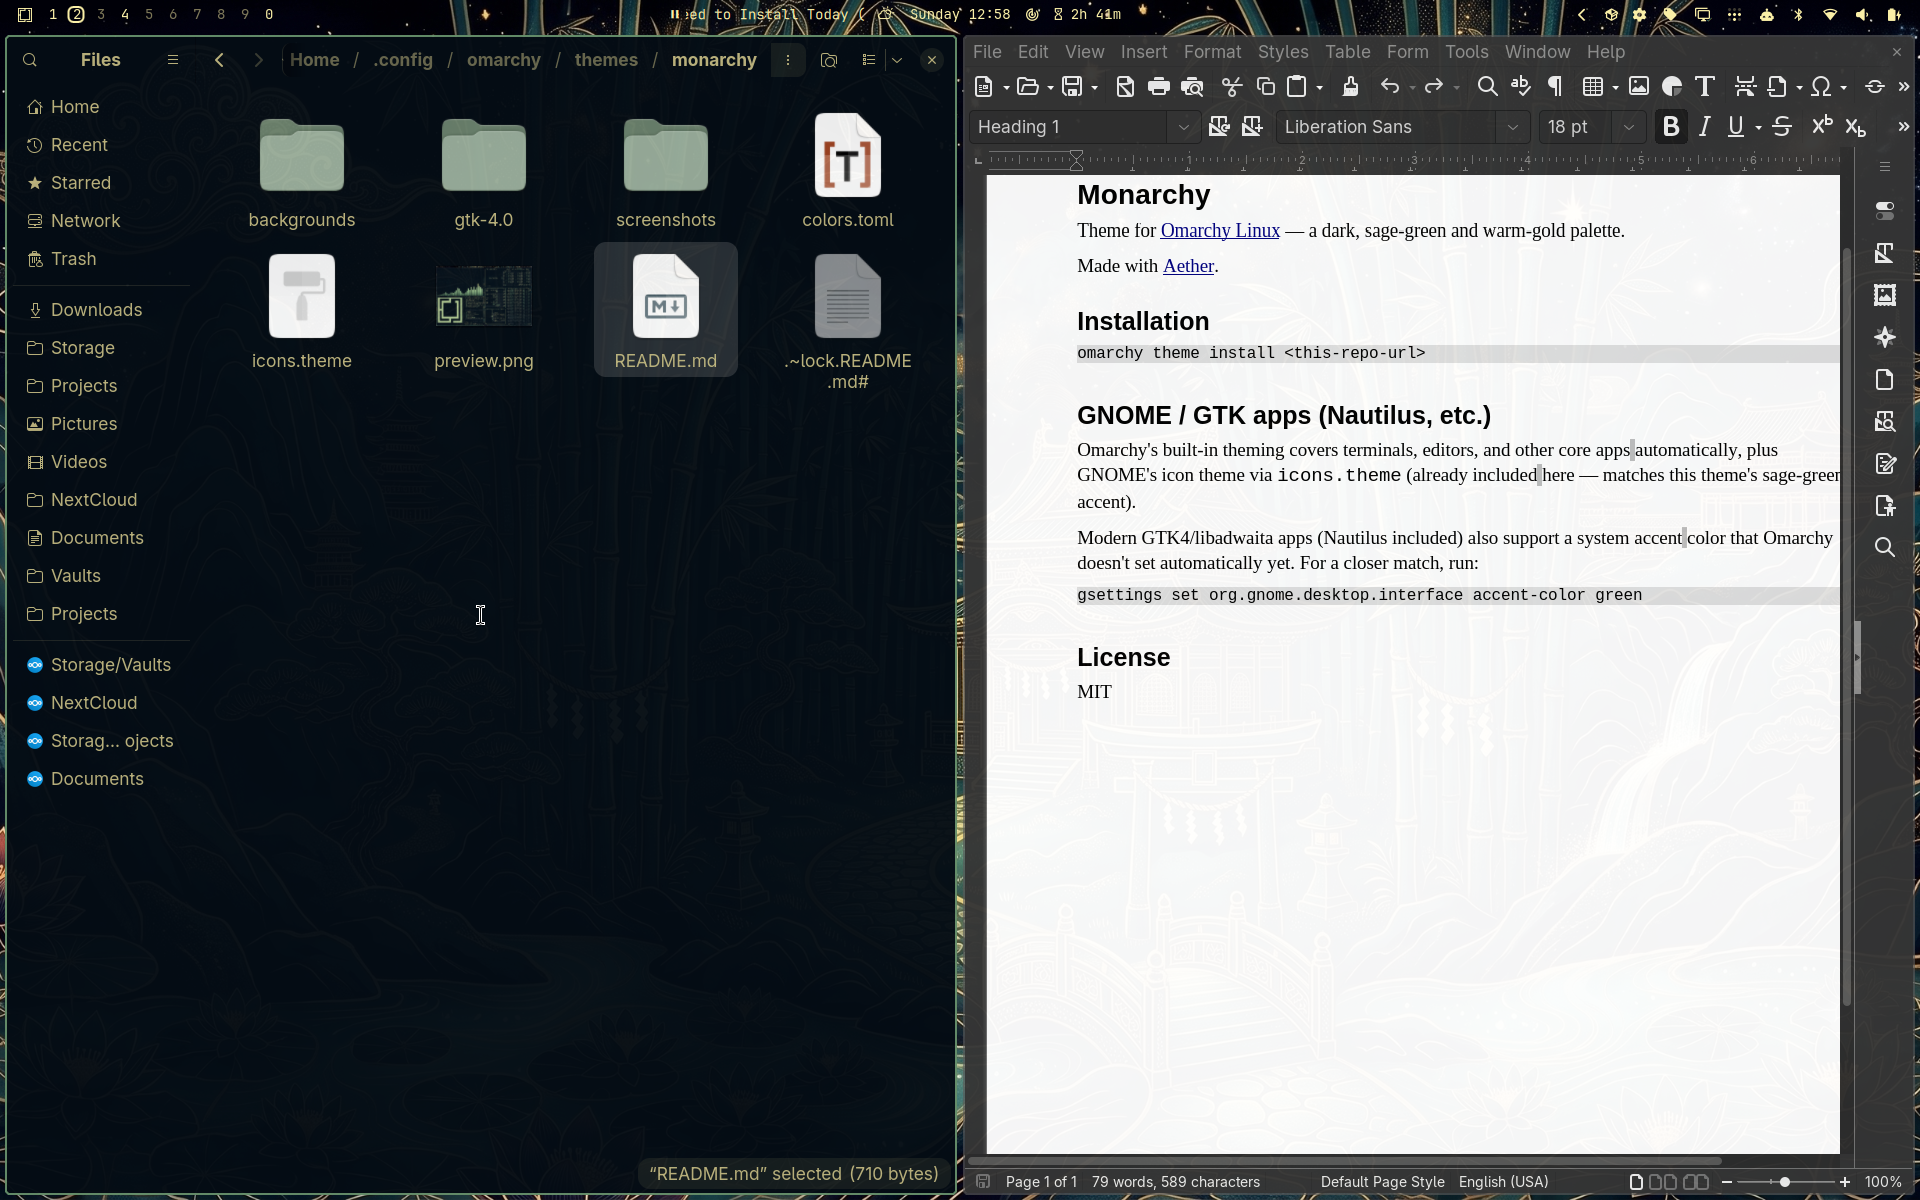
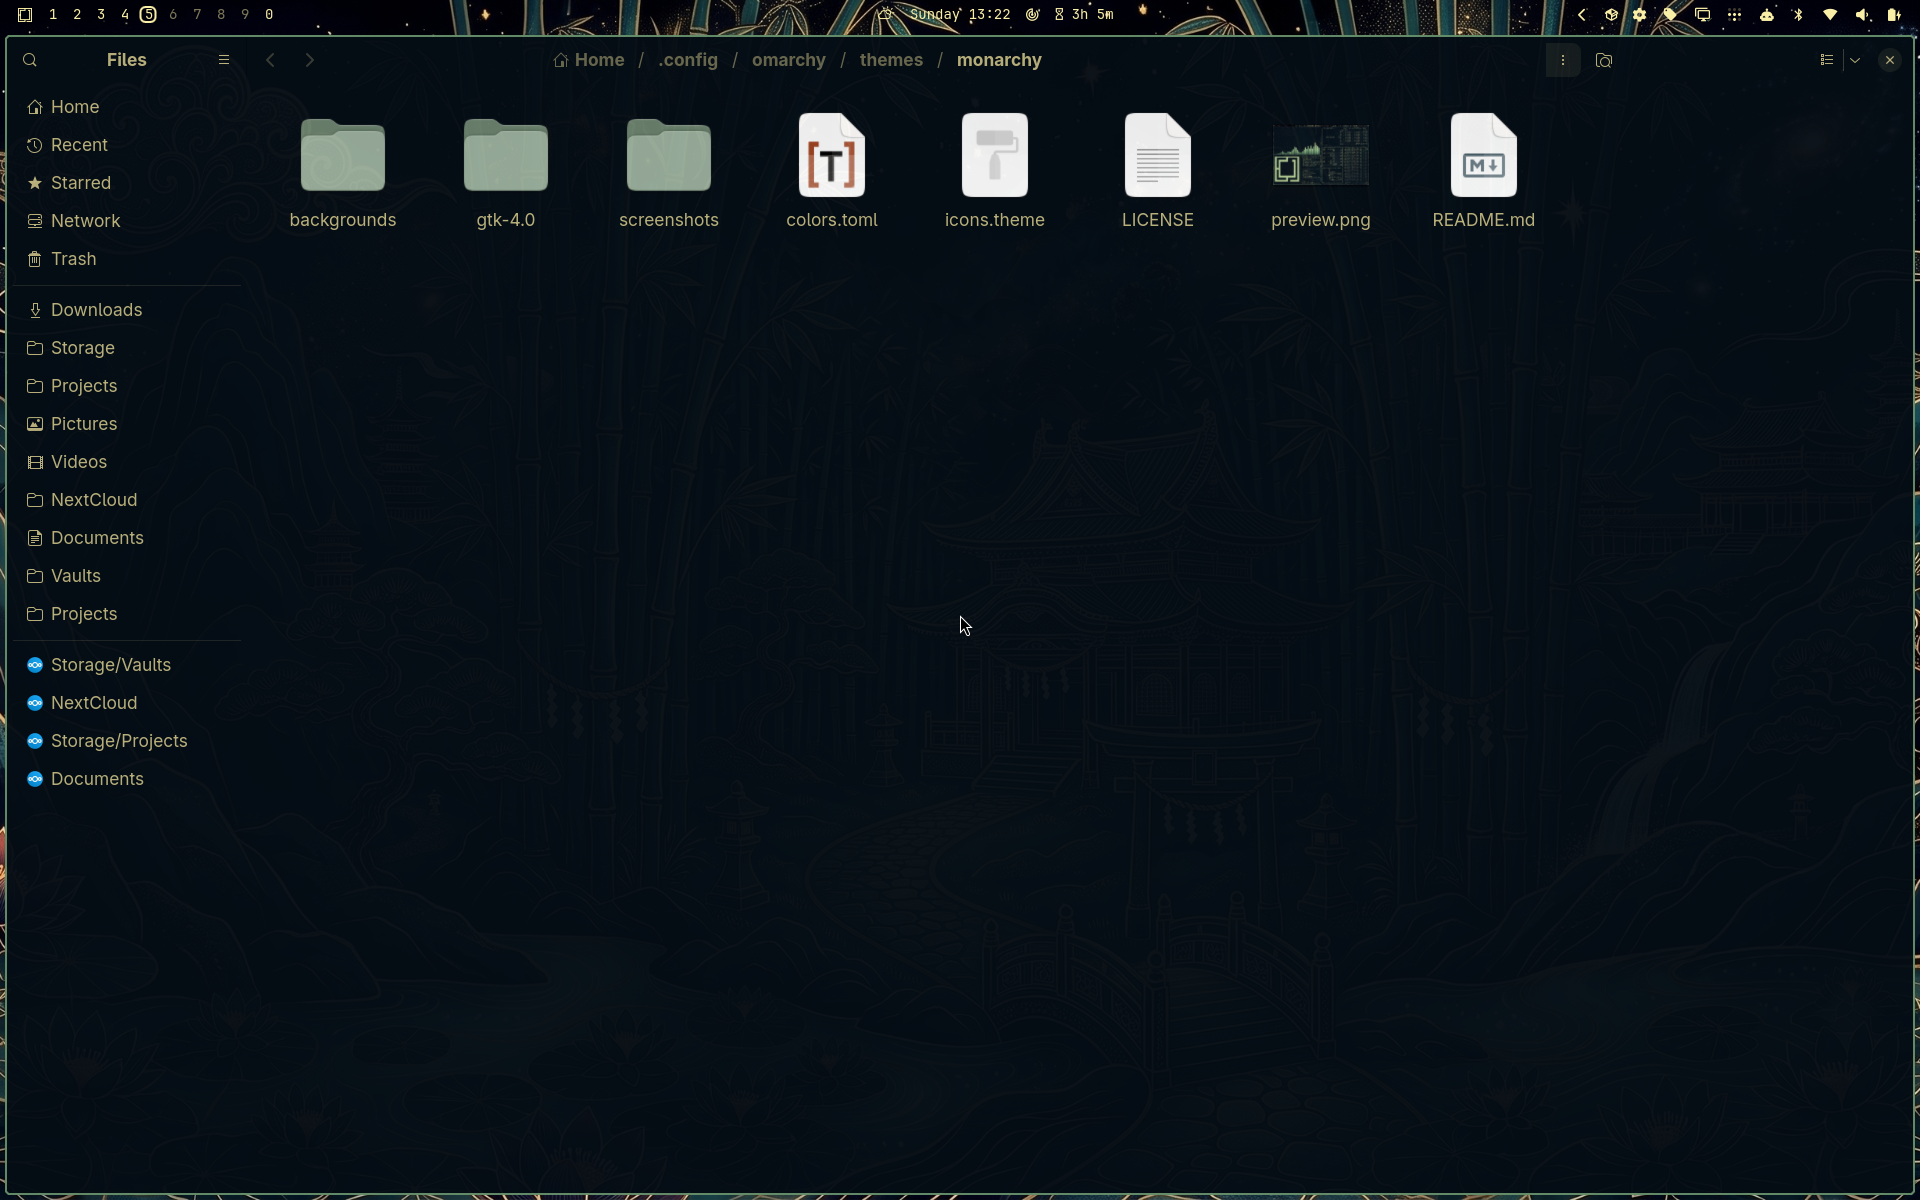
Use real install URL, replace Nautilus screenshot
The Nautilus screenshot had a LibreOffice/README window open behind it
and looked cluttered; replaced with a clean Nautilus-only shot browsing
the theme folder itself.

Claude-Session: https://claude.ai/code/session_01PrVDb5dD89MAfBYbCeeYXz

diff --git a/README.md b/README.md
@@ -9,7 +9,7 @@ Made with [Aether](https://github.com/omacom/aether).
 ## Installation
 
 ```bash
-omarchy theme install <this-repo-url>
+omarchy theme install https://github.com/MistaMyke/monarchy-omarchy-theme
 ```
 
 ## GNOME / GTK apps (Nautilus, etc.)
